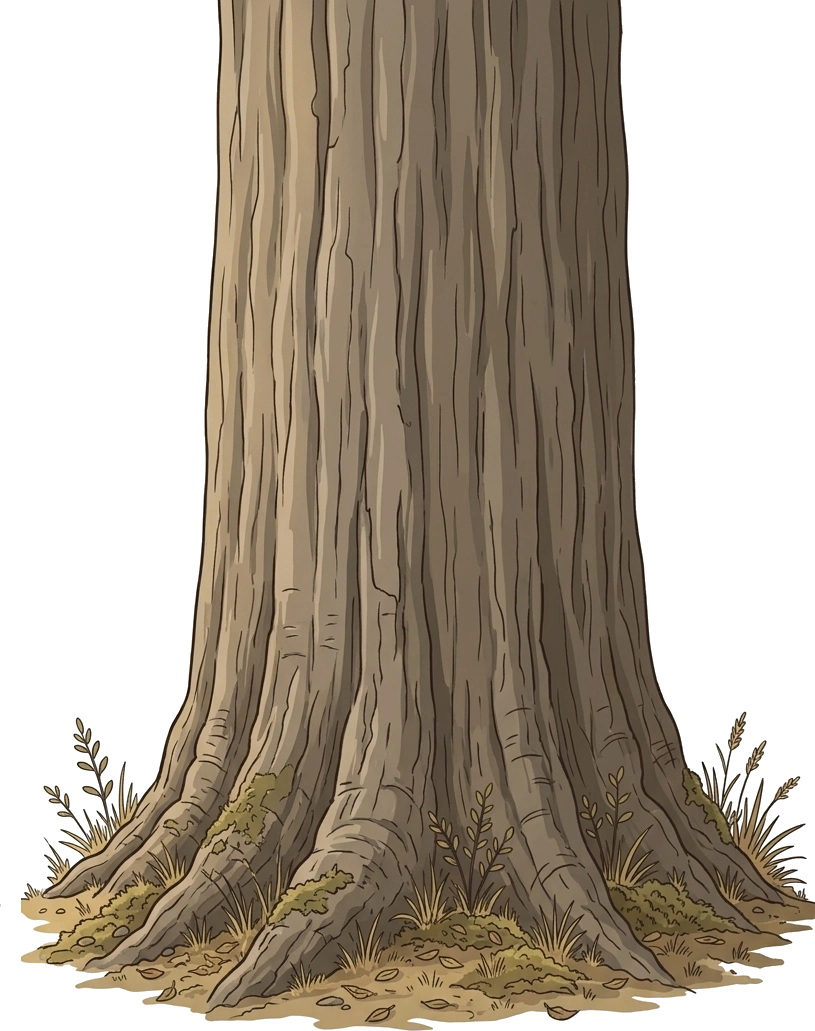
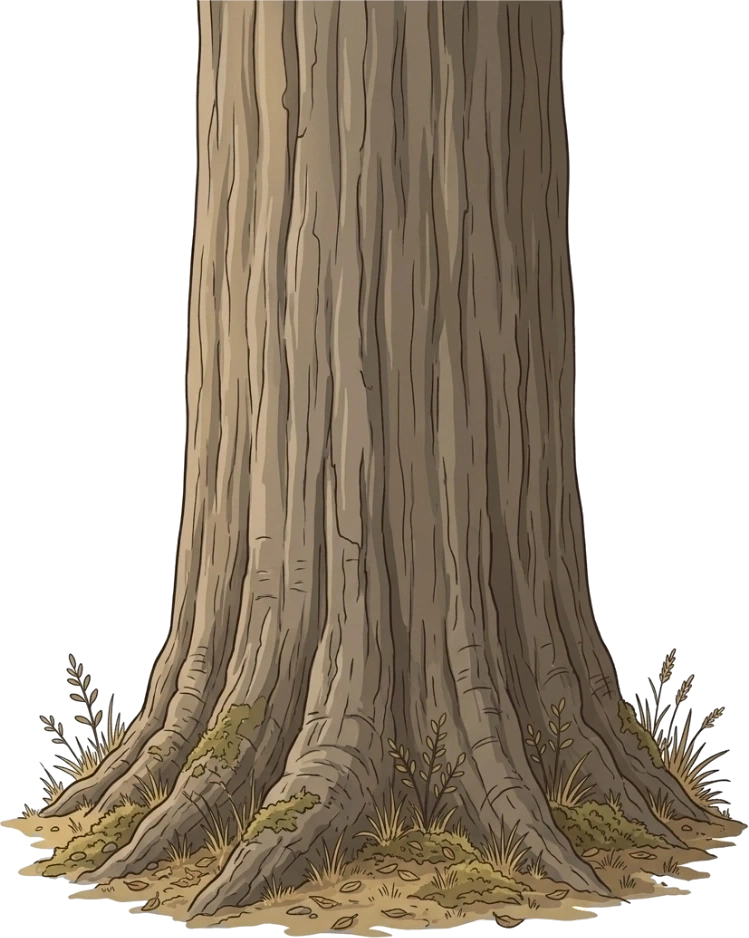
무대 설치도구 그림 잘림 경고와 확대 추가
판 가장자리의 그림 여백을 보존하고 잘림 가능성을 알려 주며, 손질 화면에서 Ctrl+휠 확대를 지원합니다. 초원 베타의 가장자리 나무 수정도 함께 반영합니다.

Changed region(s): [[0.0, 0.0, 1.0, 1.0]]

diff --git a/media/stage/install.html b/media/stage/install.html
@@ -49,7 +49,9 @@ input[type=range]{width:min(360px,100%);vertical-align:middle}
 .edit-layout{display:grid;grid-template-columns:minmax(0,1fr) 270px;gap:16px;align-items:start}
 .canvas-wrap{background:#202824;border-radius:10px;overflow:hidden;text-align:center;padding:8px;min-height:150px}
 canvas{max-width:100%;height:auto;vertical-align:middle}
-#editCanvas{cursor:crosshair;touch-action:none;width:100%;max-width:760px;height:auto;image-rendering:auto}
+#editViewport{overflow:auto;max-height:70vh;text-align:left}
+#editCanvas{display:block;cursor:crosshair;touch-action:none;width:auto;max-width:none;height:auto;image-rendering:auto;margin:0 auto}
+.canvas-zoom{display:flex;align-items:center;gap:10px;margin:6px 0;font-size:13px}
 .prop-list{display:grid;grid-template-columns:repeat(auto-fill,minmax(170px,1fr));gap:10px;margin:14px 0}
 .prop-card{border:1px solid var(--line);border-radius:10px;padding:10px;background:#fbfcfa}
 .prop-card.selected{border:2px solid var(--green)}
@@ -158,7 +160,7 @@ canvas{max-width:100%;height:auto;vertical-align:middle}
     <div style="display:flex;flex-wrap:wrap;gap:10px;align-items:flex-start;margin-top:8px"><div class="thumb" style="height:auto;padding:6px"><canvas id="cellPeek" style="max-width:260px;max-height:220px"></canvas></div><p id="peekInfo" class="small" style="max-width:360px"></p></div></div>
   </div>
   <button id="extract" class="primary">소품 칸 나누고 바깥 흰 바탕 지우기</button>
-  <p class="notice">자동 분리는 그림 인식 AI가 아니에요. 칸의 바깥과 이어진 밝은 색만 지우므로, 안에 갇힌 흰 점은 남을 수 있어요. 실제 그림을 확대해 확인하고 다음 단계에서 손질해 주세요.</p>
+  <p class="notice">자동 분리는 그림 인식 AI가 아니에요. 칸의 바깥과 이어진 밝은 색만 지우므로, 안에 갇힌 흰 점은 남을 수 있어요. 칸 바깥 가장자리 여백은 잘라내지 않아요. 그림이 칸 끝에 닿으면 원본 그림 자체가 잘렸을 수 있으니 크게 확대해 확인해 주세요.</p>
   <div id="loadStatus" class="status" role="status"></div>
   <div class="nav"><button class="secondary back">← 장면 구상</button><button class="primary next">소품 손질로 →</button></div>
  </section>
@@ -166,9 +168,11 @@ canvas{max-width:100%;height:auto;vertical-align:middle}
  <section class="panel" data-panel="2">
   <h2>소품 가장자리를 살펴요</h2>
   <p class="intro">각 그림을 골라 확대해 보고, 남은 흰 점은 지우개로, 잘못 지워진 부분은 복구 붓으로 칠해요. 투명한 바탕은 체크 무늬로 보여요.</p>
+  <p id="editorEdgeWarning" class="hint hidden" role="status"></p>
   <div class="edit-layout">
    <div>
-    <div class="canvas-wrap"><canvas id="editCanvas" aria-label="고른 소품 그림 손질"></canvas></div>
+    <div class="canvas-zoom"><span>Ctrl+마우스 휠로 확대·축소</span><button id="resetEditZoom" class="secondary" type="button">확대 초기화</button><output id="editZoomValue">100%</output></div>
+    <div class="canvas-wrap" id="editViewport"><canvas id="editCanvas" aria-label="고른 소품 그림 손질"></canvas></div>
     <div id="propCards" class="prop-list"></div>
    </div>
    <aside class="edit-controls">
@@ -765,7 +769,7 @@ canvas{max-width:100%;height:auto;vertical-align:middle}
  function imageDataUrl(im){const c=document.createElement('canvas');c.width=im.width;c.height=im.height;c.getContext('2d').putImageData(im,0,0);return c.toDataURL('image/png')}
  function canvasDataUrl(im){const c=document.createElement('canvas');c.width=im.naturalWidth;c.height=im.naturalHeight;c.getContext('2d').drawImage(im,0,0);return c.toDataURL('image/png')}
  async function saveDraft(){
-  const props=state.props.map(p=>({name:p.name,slug:p.slug,width:p.width,x:p.x,y:p.y,height:p.height,image:imageDataUrl(p.image),source:imageDataUrl(p.source)}));
+  const props=state.props.map(p=>({name:p.name,slug:p.slug,width:p.width,x:p.x,y:p.y,height:p.height,touchesEdge:p.touchesEdge,image:imageDataUrl(p.image),source:imageDataUrl(p.source)}));
   const draft={version:1,scene:{name:$('#sceneName').value,slug:$('#sceneSlug').value,group:$('#sceneGroup').value,setting:$('#sceneSetting').value,objectNames:$('#objectNames').value,horizon:$('#horizon').value,threshold:$('#threshold').value,neutral:$('#neutral').value,cellMargin:$('#cellMargin').value,brushSize:$('#brushSize').value,brushMode:$('#brushMode').value,step:state.step,notes:$('#reviewNotes').value,checks:$$('.finalCheck').map(c=>c.checked),bgPrompt:$('#bgPrompt').value,preset:$('#placePreset').value,frameNames:$('#frameNames').value,density:$('#density').value,stdPrompt:$('#stdPrompt').value,propsPrompt:$('#propsPrompt').value},bg:state.bg?canvasDataUrl(state.bg):null,bgName:state.bgName,sheet:state.sheet?canvasDataUrl(state.sheet):null,sheetName:state.sheetName,props,sheets:(state.sheets||[]).map(x=>x?canvasDataUrl(x):null),sheetCount:sheetCount(),sheetCfg:(saveSheetCfg(),state.sheetCfg||{}),std:state.std?canvasDataUrl(state.std):null,big:Object.fromEntries(Object.entries(state.big).map(([k,im])=>[k,canvasDataUrl(im)]))};
   download(new Blob([JSON.stringify(draft)],{type:'application/json'}),`${state.slug||'stage'}-work.json`);
  }
@@ -848,7 +852,8 @@ canvas{max-width:100%;height:auto;vertical-align:middle}
   const one=state.big[bigKey(v,index)];if(one)sheet=one;   /* 큰 그림을 불러온 소품은 그 그림 전체 */
   const sw=sheet.naturalWidth,sh=sheet.naturalHeight,col=one?0:index%3,row=one?0:Math.floor(index/3);
   const G=one?{xs:[0,sw],ys:[0,sh]}:gutters(sheet,threshold,neutral),gx=one?[0,sw]:G.xs,gy=one?[0,sh]:G.ys;
-  const x=gx[col]+margin,y=gy[row]+margin,w=gx[col+1]-gx[col]-margin*2,h=gy[row+1]-gy[row]-margin*2;
+  const left=col===0?0:margin,right=col===2?0:margin,top=row===0?0:margin,bottom=row===2?0:margin;
+  const x=gx[col]+left,y=gy[row]+top,w=gx[col+1]-gx[col]-left-right,h=gy[row+1]-gy[row]-top-bottom;
   const c=document.createElement('canvas');c.width=w;c.height=h;const cx=c.getContext('2d',{willReadFrequently:true});cx.drawImage(sheet,x,y,w,h,0,0,w,h);
   const im=cx.getImageData(0,0,w,h),d=im.data,n=w*h,allow=new Uint8Array(n),seen=new Uint8Array(n),q=new Int32Array(n);let head=0,tail=0;
   for(let p=0,j=0;p<n;p++,j+=4){const r=d[j],g=d[j+1],b=d[j+2],hi=Math.max(r,g,b),lo=Math.min(r,g,b);if((r+g+b)/3>=threshold&&hi-lo<=neutral)allow[p]=1}
@@ -861,10 +866,16 @@ canvas{max-width:100%;height:auto;vertical-align:middle}
    if(a<.12){d[j+3]=0;continue}
    const aa=Math.max(.12,a);d[j]=Math.max(0,Math.min(255,(r-255*(1-aa))/aa));d[j+1]=Math.max(0,Math.min(255,(g-255*(1-aa))/aa));d[j+2]=Math.max(0,Math.min(255,(b-255*(1-aa))/aa));d[j+3]=Math.round(aa*255);
   }
+  const atEdge=(x,y)=>d[(y*w+x)*4+3]>100,touchesEdge={
+   top:Array.from({length:w},(_,x)=>atEdge(x,0)).some(Boolean),
+   bottom:Array.from({length:w},(_,x)=>atEdge(x,h-1)).some(Boolean),
+   left:Array.from({length:h},(_,y)=>atEdge(0,y)).some(Boolean),
+   right:Array.from({length:h},(_,y)=>atEdge(w-1,y)).some(Boolean)
+  };
   cx.putImageData(im,0,0);
   const sp=specsOf(v)[index]||{},name=sp.name||`소품 ${index+1}`,isNew=v&&sheetCfg(v).mode==='new';
   const N=sheetCount();
-  return {name:N>1&&!isNew?`${name} ${v+1}`:name,kind:isNew?`k${v+1}-${index+1}`:`k${index+1}`,kindName:name,v,cell:index,big:Boolean(one),slug:N>1?`item-${String(index+1).padStart(2,'0')}-${v+1}`:`item-${String(index+1).padStart(2,'0')}`,source:new ImageData(new Uint8ClampedArray(im.data),w,h),image:im,width:.18,x:.15+(index%4)*.22,y:.9-Math.floor(index/4)*.2,height:sp.h?[...sp.h]:[.5,1]};
+  return {name:N>1&&!isNew?`${name} ${v+1}`:name,kind:isNew?`k${v+1}-${index+1}`:`k${index+1}`,kindName:name,v,cell:index,big:Boolean(one),slug:N>1?`item-${String(index+1).padStart(2,'0')}-${v+1}`:`item-${String(index+1).padStart(2,'0')}`,source:new ImageData(new Uint8ClampedArray(im.data),w,h),image:im,touchesEdge,width:.18,x:.15+(index%4)*.22,y:.9-Math.floor(index/4)*.2,height:sp.h?[...sp.h]:[.5,1]};
  }
  $('#extract').addEventListener('click',()=>{
   if(!state.sheet){setStatus($('#loadStatus'),'먼저 소품 판 그림을 불러와 주세요.',true);return}
@@ -875,9 +886,16 @@ canvas{max-width:100%;height:auto;vertical-align:middle}
   saveSheetCfg();state.props=[];for(let v=0;v<sheets.length;v++)for(let i=0,mv=Math.min(8,specsOf(v).length||max);i<mv;i++){const pr=cropObject(sheets[v],i,Number($('#threshold').value),Number($('#neutral').value),margin,v);pr.x=Math.min(.92,pr.x+v*.03);removeSpecks(pr);dropGroundLine(pr);defringe(pr,2);fitProp(pr);state.props.push(pr)}
   frameNames().forEach((n,j)=>{const img=state.big['frame-'+j];if(!img)return;state.big['Fr'+j+'-0']=img;const pr=cropObject(img,0,Number($('#threshold').value),Number($('#neutral').value),margin,'Fr'+j);
    Object.assign(pr,{name:`가장자리 ${j+1}`,kind:'frame',kindName:'가장자리',slug:`edge-${j+1}`,role:'frame',height:[4,6],x:j%2?.9:.1,y:.98});dropGroundLine(pr);defringe(pr,2);fitProp(pr);state.props.push(pr)});
-  state.selected=0;renderPropCards();setStatus($('#loadStatus'),`${state.props.length}개 칸을 나눴어요. 흰색으로 된 실제 소품 부분이 투명해지지 않았는지 꼭 살펴봐 주세요.`);
+  state.selected=0;renderPropCards();const edgeItems=state.props.filter(p=>Object.values(p.touchesEdge||{}).some(Boolean)).map(p=>p.name);setStatus($('#loadStatus'),`${state.props.length}개 칸을 나눴어요. 흰색으로 된 실제 소품 부분이 투명해지지 않았는지 꼭 살펴봐 주세요.${edgeItems.length?` 칸 끝에 그림이 닿는 소품: ${edgeItems.join(' · ')}. 원본에서 잘렸을 수 있으니 확대해 확인해 주세요.`:''}`,edgeItems.length>0);
  });
- function paint(canvas,im){canvas.width=im.width;canvas.height=im.height;canvas.getContext('2d').putImageData(im,0,0)}
+ let editZoom=1;
+ const editViewport=$('#editViewport'),editCanvas=$('#editCanvas');
+ function fitEditCanvas(){if(!editCanvas.width)return;const base=Math.max(1,Math.min(editCanvas.width,760,editViewport.clientWidth-16));editCanvas.style.width=`${base*editZoom}px`;$('#editZoomValue').value=`${Math.round(editZoom*100)}%`}
+ function changeEditZoom(next,x,y){const before=editCanvas.getBoundingClientRect(),box=editViewport.getBoundingClientRect(),ax=x-box.left-editViewport.clientLeft,ay=y-box.top-editViewport.clientTop;if(!before.width)return;editZoom=next;fitEditCanvas();const scale=editCanvas.getBoundingClientRect().width/before.width;editViewport.scrollLeft=(editViewport.scrollLeft+ax)*scale-ax;editViewport.scrollTop=(editViewport.scrollTop+ay)*scale-ay}
+ new ResizeObserver(fitEditCanvas).observe(editViewport);
+ editViewport.addEventListener('wheel',e=>{if(!e.ctrlKey)return;e.preventDefault();const factor=e.deltaY<0?1.15:1/1.15;changeEditZoom(Math.max(.5,Math.min(4,editZoom*factor)),e.clientX,e.clientY)},{passive:false});
+ $('#resetEditZoom').addEventListener('click',()=>{changeEditZoom(1,editViewport.getBoundingClientRect().left+editViewport.clientWidth/2,editViewport.getBoundingClientRect().top+editViewport.clientHeight/2)});
+ function paint(canvas,im){canvas.width=im.width;canvas.height=im.height;canvas.getContext('2d').putImageData(im,0,0);if(canvas===editCanvas)fitEditCanvas()}
  function renderPropCards(){
   const wrap=$('#propCards');wrap.innerHTML='';
   state.props.forEach((p,i)=>{const d=document.createElement('div');d.className='prop-card'+(i===state.selected?' selected':'');d.innerHTML=`<button type="button">${esc(i+1)}. ${esc(p.name)}</button><div class="thumb"><canvas></canvas></div><label>화면 이름<input type="text" value="${esc(p.name)}"></label><label>파일 이름 (영문)<input type="text" value="${esc(p.slug)}"></label>`;
@@ -886,7 +904,7 @@ canvas{max-width:100%;height:auto;vertical-align:middle}
   });
   if(state.props.length)selectProp(Math.min(state.selected,state.props.length-1));
  }
- function selectProp(i){state.selected=i;const p=state.props[i];if(!p)return;keepRect=null;$('#keepBar').classList.add('hidden');if($('#brushMode').value==='keep')$('#brushMode').value='erase';$('#itemThreshold').value=p.threshold||$('#threshold').value;$('#itemThresholdValue').value=$('#itemThreshold').value;$('#editName').textContent=p.name;paint($('#editCanvas'),p.image);$('#heightMin').value=p.height[0];$('#heightMax').value=p.height[1];$$('#propCards .prop-card').forEach((c,j)=>c.classList.toggle('selected',j===i));}
+ function selectProp(i){state.selected=i;const p=state.props[i];if(!p)return;keepRect=null;$('#keepBar').classList.add('hidden');if($('#brushMode').value==='keep')$('#brushMode').value='erase';$('#itemThreshold').value=p.threshold||$('#threshold').value;$('#itemThresholdValue').value=$('#itemThreshold').value;$('#editName').textContent=p.name;const edgeNames=Object.entries(p.touchesEdge||{}).filter(([,hit])=>hit).map(([edge])=>({top:'위',bottom:'아래',left:'왼쪽',right:'오른쪽'}[edge]));const edgeWarning=$('#editorEdgeWarning');edgeWarning.classList.toggle('hidden',!edgeNames.length);edgeWarning.textContent=edgeNames.length?`${p.name} 그림이 칸 ${edgeNames.join('·')} 끝에 닿아요. 원본에서 잘렸을 수 있으니 크게 확대해 확인해 주세요.`:'';paint($('#editCanvas'),p.image);$('#heightMin').value=p.height[0];$('#heightMax').value=p.height[1];$$('#propCards .prop-card').forEach((c,j)=>c.classList.toggle('selected',j===i));}
  /* 되돌리기(2026-11-09): 손질(칠하기·흰 틈·구역·조각 지우기) 바로 전 그림을 소품마다 10번까지 */
  function pushUndo(p){(p.undo=p.undo||[]).push(new ImageData(new Uint8ClampedArray(p.image.data),p.image.width,p.image.height));if(p.undo.length>10)p.undo.shift()}
  $('#undoEdit').addEventListener('click',()=>{const p=state.props[state.selected];if(!p||!p.undo||!p.undo.length)return;const im=p.undo.pop();if(im.width!==p.image.width||im.height!==p.image.height){p.image=im;p.source=new ImageData(new Uint8ClampedArray(im.data),im.width,im.height)}else p.image=im;paint($('#editCanvas'),p.image);renderPropCards();drawScene()});
